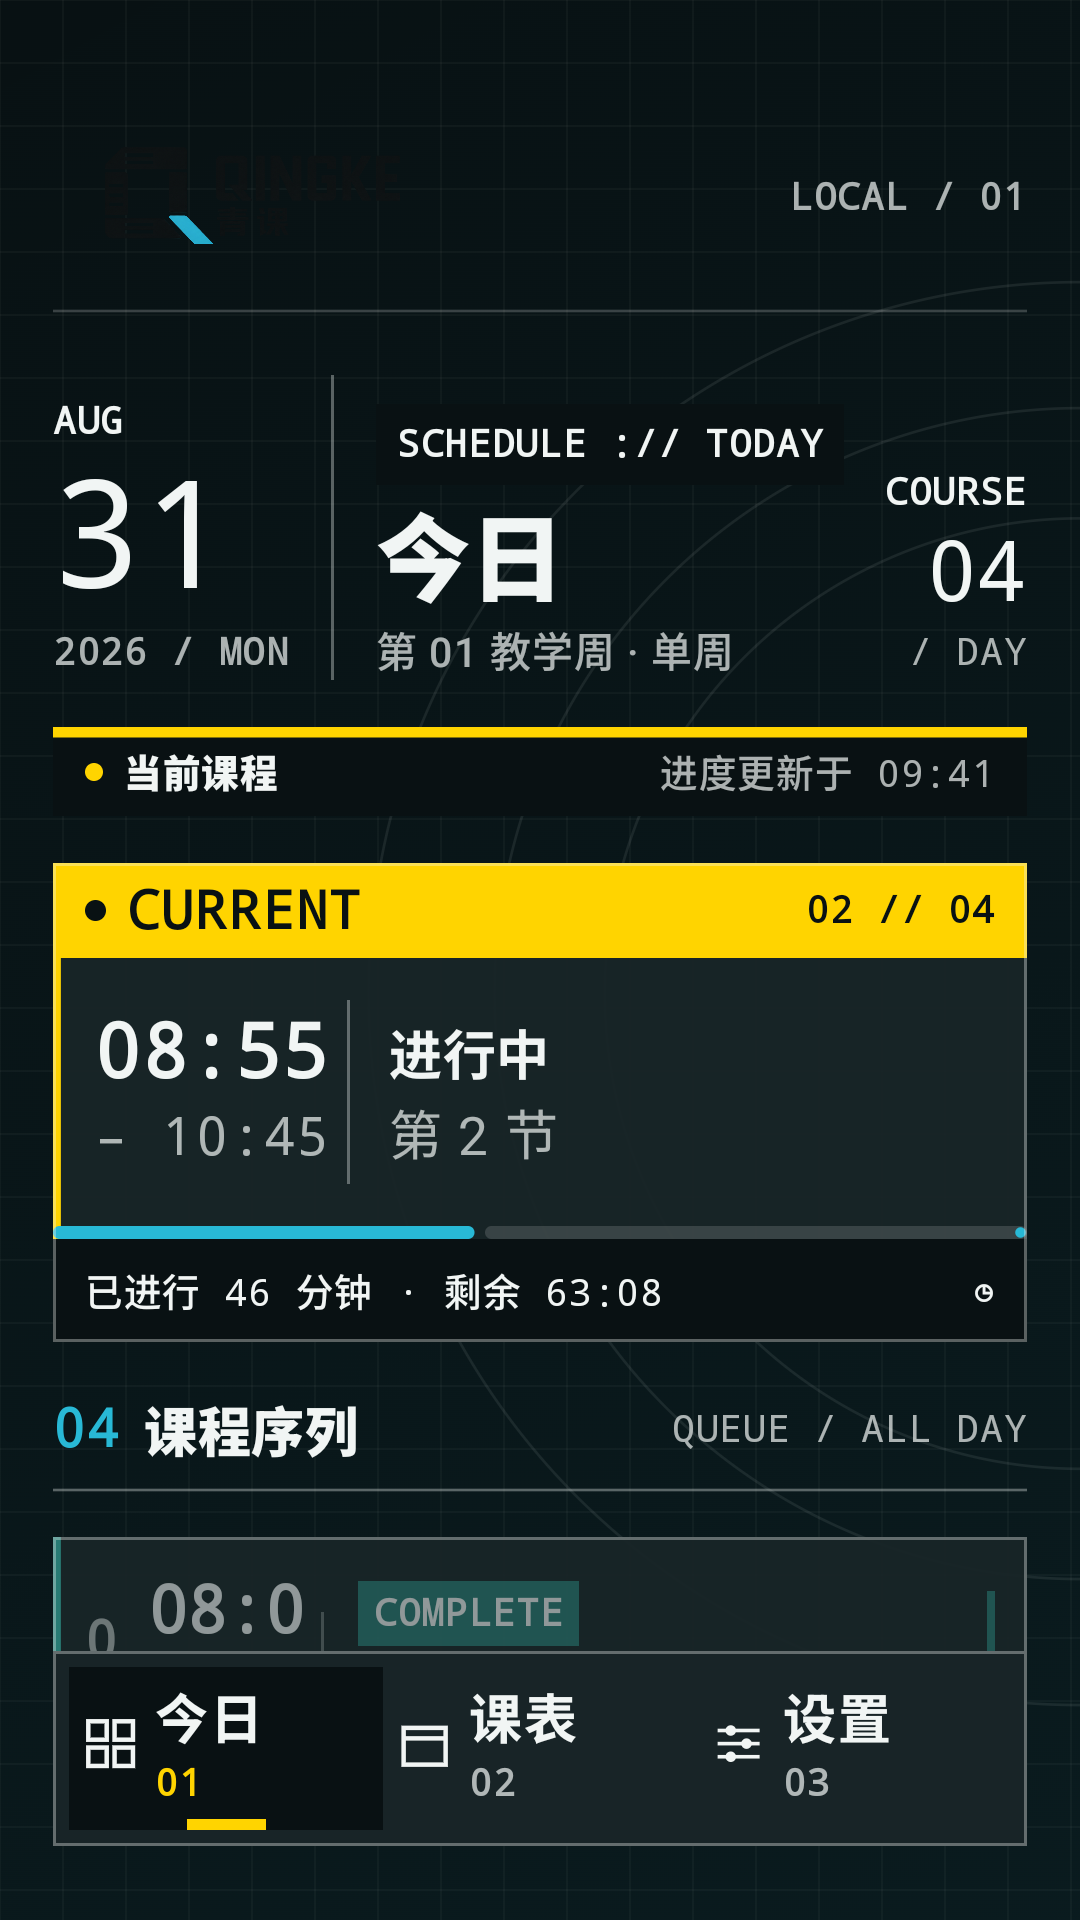
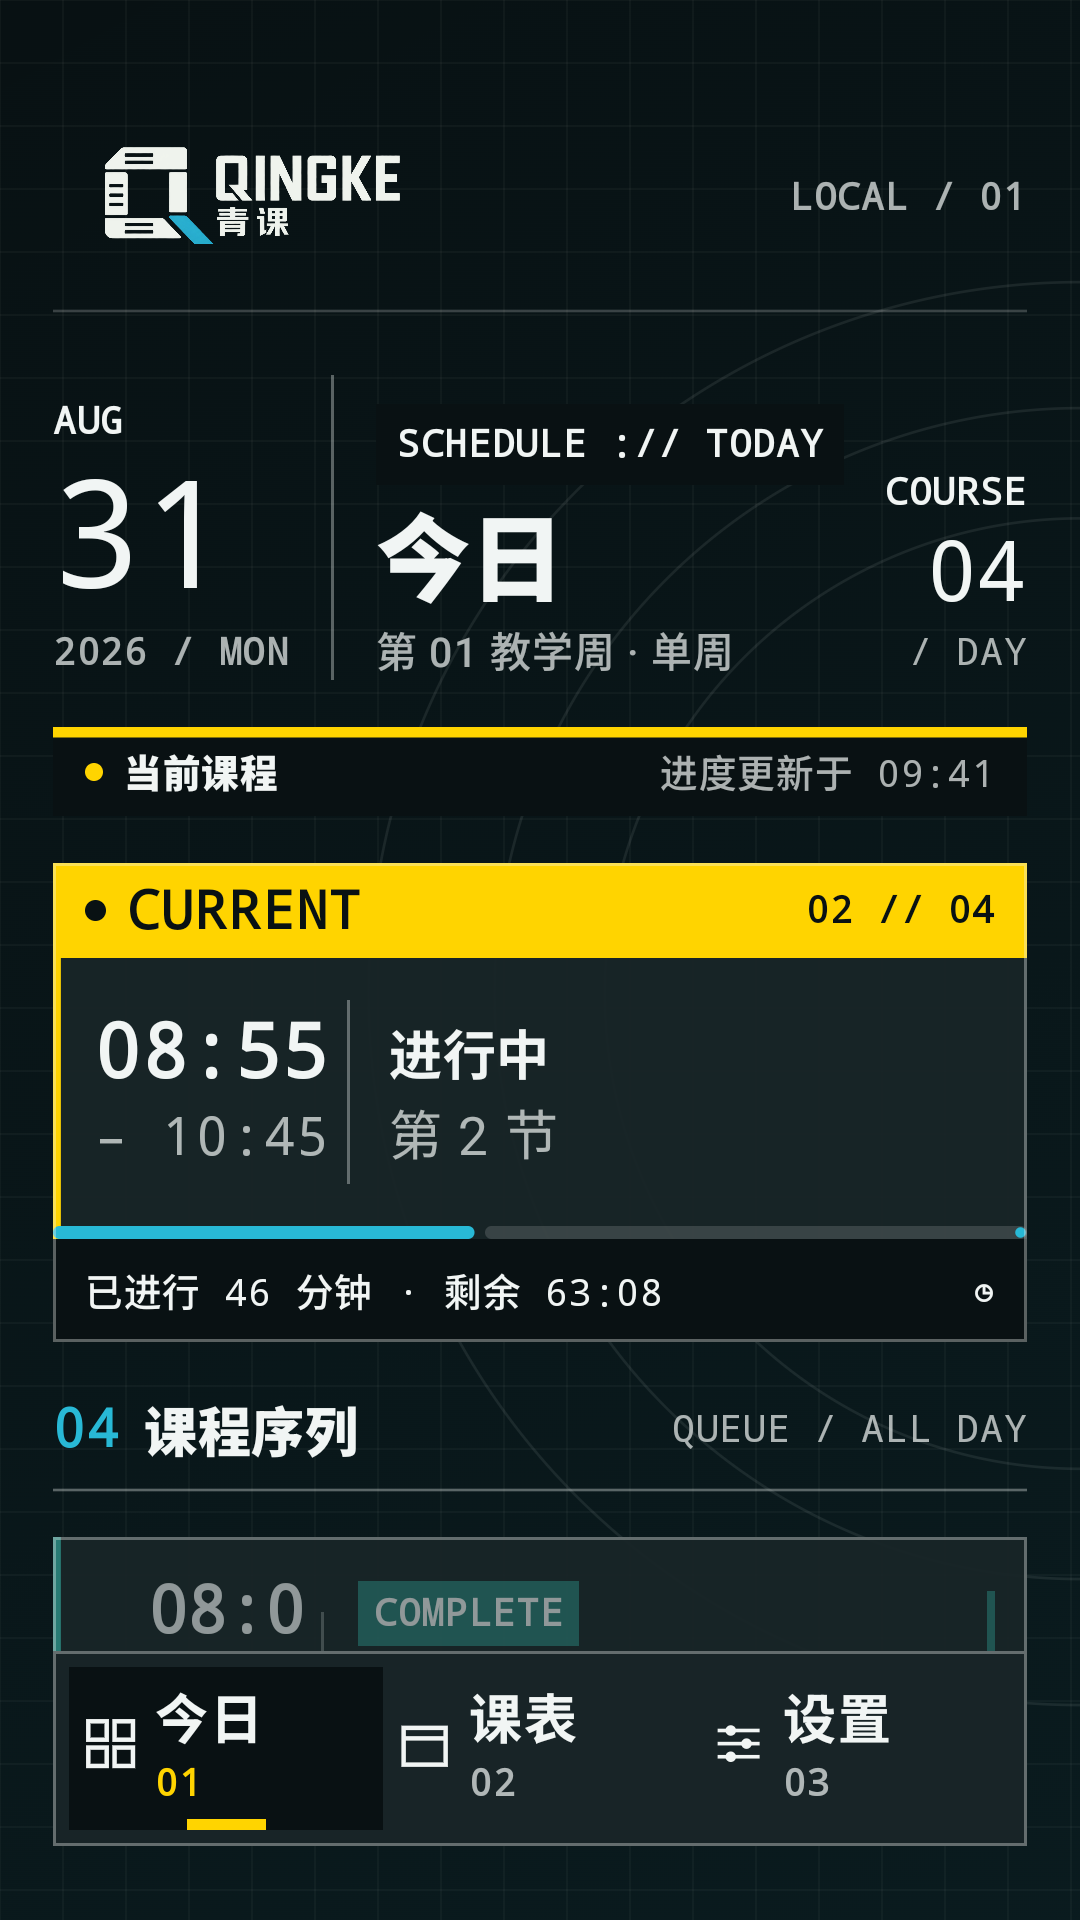
fix(android): address r2 visual review findings

Changed region(s): [[0.0917, 0.0625, 0.3667, 0.125], [0.0611, 0.8438, 0.1222, 0.875]]

diff --git a/Android/app/src/main/java/com/qingke/schedule/ui/QingKeApp.kt b/Android/app/src/main/java/com/qingke/schedule/ui/QingKeApp.kt
@@ -6,7 +6,6 @@ import android.app.TimePickerDialog
 import androidx.compose.foundation.background
 import androidx.compose.foundation.border
 import androidx.compose.foundation.clickable
-import androidx.compose.foundation.gestures.detectVerticalDragGestures
 import androidx.compose.foundation.isSystemInDarkTheme
 import androidx.compose.foundation.Canvas
 import androidx.compose.foundation.layout.Arrangement
@@ -66,7 +65,7 @@ import androidx.compose.ui.platform.LocalContext
 import androidx.compose.ui.platform.LocalView
 import androidx.compose.ui.res.painterResource
 import androidx.compose.ui.platform.testTag
-import androidx.compose.ui.input.pointer.pointerInput
+import androidx.compose.ui.graphics.graphicsLayer
 import androidx.compose.ui.semantics.contentDescription
 import androidx.compose.ui.semantics.semantics
 import androidx.compose.ui.semantics.Role
@@ -342,18 +341,20 @@ fun QingKeAppContent(
     val presentation = TodaySchedulePresentation.create(semester, state.data.courses, now, state.preferences.academicCalendar)
     var refreshing by remember { mutableStateOf(false) }
     val scope = rememberCoroutineScope()
-    val triggerRefresh = { if (!refreshing) scope.launch { refreshing = true; refresh(); delay(350); refreshing = false } }
+    val triggerRefresh = {
+        if (!refreshing) {
+            refreshing = true
+            scope.launch {
+                refresh()
+                delay(350)
+                refreshing = false
+            }
+        }
+    }
     Column(modifier.statusBarsPadding().testTag("today-screen")) {
         BrandHeader(dark)
         PullToRefreshBox(isRefreshing = refreshing, onRefresh = triggerRefresh, modifier = Modifier.weight(1f).fillMaxWidth().testTag("today-refresh-container")) {
-            var draggedDistance by remember { mutableStateOf(0f) }
-            LazyColumn(Modifier.fillMaxSize().testTag("today-scroll-content").pointerInput(refreshing) {
-                detectVerticalDragGestures(
-                    onVerticalDrag = { _, amount -> draggedDistance += amount },
-                    onDragEnd = { if (kotlin.math.abs(draggedDistance) > 96f && !refreshing) triggerRefresh(); draggedDistance = 0f },
-                    onDragCancel = { draggedDistance = 0f },
-                )
-            }, contentPadding = androidx.compose.foundation.layout.PaddingValues(start = 20.dp, end = 20.dp, top = 12.dp, bottom = 100.dp), verticalArrangement = Arrangement.spacedBy(18.dp)) {
+            LazyColumn(Modifier.fillMaxSize().testTag("today-scroll-content"), contentPadding = androidx.compose.foundation.layout.PaddingValues(start = 20.dp, end = 20.dp, top = 12.dp, bottom = 100.dp), verticalArrangement = Arrangement.spacedBy(18.dp)) {
                 item { TodayHero(now, semester, presentation, dark, Modifier.testTag("today-date-hero")) }
                 if (refreshing) item { RefreshFeedback(dark) }
                 if (presentation.items.isEmpty()) item { TodayEmpty(presentation.emptyMessage, dark) }
@@ -376,7 +377,7 @@ fun QingKeAppContent(
     Modifier.fillMaxWidth().padding(horizontal = 20.dp).padding(top = 8.dp, bottom = 12.dp).border(width = 0.dp, color = Color.Transparent)
         .drawBehind { drawLine(if (dark) Color.White.copy(alpha = .20f) else Color.Black.copy(alpha = .18f), androidx.compose.ui.geometry.Offset(0f, size.height), androidx.compose.ui.geometry.Offset(size.width, size.height), 1.dp.toPx()) }.testTag("today-brand-header"), verticalAlignment = Alignment.CenterVertically,
 ) {
-    androidx.compose.foundation.Image(painterResource(R.drawable.qingke_logo), "青课 QINGKE ACADEMIC TERMINAL", Modifier.width(154.dp).heightIn(min = 54.dp).testTag("today-brand-logo"), contentScale = ContentScale.Fit)
+    androidx.compose.foundation.Image(painterResource(if (dark) R.drawable.qingke_logo_dark else R.drawable.qingke_logo), "青课 QINGKE ACADEMIC TERMINAL", Modifier.width(154.dp).heightIn(min = 54.dp).testTag("today-brand-logo"), contentScale = ContentScale.Fit)
     Spacer(Modifier.weight(1f)); Text("LOCAL / 01", color = terminalSecondary(dark), fontFamily = FontFamily.Monospace, fontWeight = FontWeight.Bold, style = MaterialTheme.typography.labelSmall)
 }
 
@@ -413,7 +414,7 @@ fun QingKeAppContent(
 
 @Composable private fun CourseRow(item: TodayCourseItem, semester: com.qingke.schedule.domain.Semester, index: Int, dark: Boolean) = Row(Modifier.fillMaxWidth().terminalPanel(dark, courseColor(item.occurrence.course.color)).alpha(if (item.status == CourseStatus.FINISHED) .56f else 1f).padding(12.dp).testTag("today-course-${item.occurrence.key.courseIndex}-${item.occurrence.key.scheduleIndex}"), verticalAlignment = Alignment.CenterVertically) {
     val key = item.occurrence.key; val accent = if (item.status == CourseStatus.ONGOING) SignalYellow else courseColor(item.occurrence.course.color)
-    Text("%02d".format(index + 1), color = terminalSecondary(dark), fontFamily = FontFamily.Monospace, fontWeight = FontWeight.Black, modifier = Modifier.width(24.dp)); Column(Modifier.width(66.dp)) { val range = ScheduleDisplayText.timeRange(item.occurrence.schedule, semester).split("–"); Text(range.firstOrNull().orEmpty(), color = terminalText(dark), fontFamily = FontFamily.Monospace, fontWeight = FontWeight.Bold, style = MaterialTheme.typography.titleLarge); Text(range.getOrNull(1).orEmpty(), color = terminalSecondary(dark), fontFamily = FontFamily.Monospace, style = MaterialTheme.typography.labelSmall) }; Box(Modifier.width(1.dp).heightIn(min = 52.dp).background(terminalBorder(dark))); Column(Modifier.padding(start = 13.dp).weight(1f)) { Text(statusText(item), color = if (item.status == CourseStatus.ONGOING) InverseSurface else terminalText(dark), fontFamily = FontFamily.Monospace, fontWeight = FontWeight.Black, style = MaterialTheme.typography.labelSmall, modifier = Modifier.background(accent).padding(horizontal = 6.dp, vertical = 2.dp).testTag("today-course-status-${key.courseIndex}-${key.scheduleIndex}")); Text(item.occurrence.course.name, color = terminalText(dark), style = MaterialTheme.typography.titleMedium, fontWeight = FontWeight.Bold); Text(courseDetails(item.occurrence), color = terminalSecondary(dark), modifier = Modifier.testTag("today-course-details-${key.courseIndex}-${key.scheduleIndex}"), style = MaterialTheme.typography.labelSmall) }; Box(Modifier.width(3.dp).heightIn(min = 68.dp).background(accent).testTag("today-course-color-${key.courseIndex}-${key.scheduleIndex}").semantics { contentDescription = "课程颜色：${courseColorLabel(item.occurrence.course.color)}" })
+    Text("%02d".format(index + 1), color = terminalSecondary(dark), fontFamily = FontFamily.Monospace, fontWeight = FontWeight.Black, modifier = Modifier.width(24.dp).graphicsLayer { rotationZ = -90f }.testTag("today-course-index-${key.courseIndex}-${key.scheduleIndex}")); Column(Modifier.width(66.dp)) { val range = ScheduleDisplayText.timeRange(item.occurrence.schedule, semester).split("–"); Text(range.firstOrNull().orEmpty(), color = terminalText(dark), fontFamily = FontFamily.Monospace, fontWeight = FontWeight.Bold, style = MaterialTheme.typography.titleLarge); Text(range.getOrNull(1).orEmpty(), color = terminalSecondary(dark), fontFamily = FontFamily.Monospace, style = MaterialTheme.typography.labelSmall) }; Box(Modifier.width(1.dp).heightIn(min = 52.dp).background(terminalBorder(dark))); Column(Modifier.padding(start = 13.dp).weight(1f)) { Text(statusText(item), color = if (item.status == CourseStatus.ONGOING) InverseSurface else terminalText(dark), fontFamily = FontFamily.Monospace, fontWeight = FontWeight.Black, style = MaterialTheme.typography.labelSmall, modifier = Modifier.background(accent).padding(horizontal = 6.dp, vertical = 2.dp).testTag("today-course-status-${key.courseIndex}-${key.scheduleIndex}")); Text(item.occurrence.course.name, color = terminalText(dark), style = MaterialTheme.typography.titleMedium, fontWeight = FontWeight.Bold); Text(courseDetails(item.occurrence), color = terminalSecondary(dark), modifier = Modifier.testTag("today-course-details-${key.courseIndex}-${key.scheduleIndex}"), style = MaterialTheme.typography.labelSmall) }; Box(Modifier.width(3.dp).heightIn(min = 68.dp).background(accent).testTag("today-course-color-${key.courseIndex}-${key.scheduleIndex}").semantics { contentDescription = "课程颜色：${courseColorLabel(item.occurrence.course.color)}" })
 }
 
 private fun terminalText(dark: Boolean) = if (dark) Color(0xFFF1F5F4) else Color(0xFF091113)

diff --git a/Android/app/src/androidTest/java/com/qingke/schedule/ui/QingKeAppTest.kt b/Android/app/src/androidTest/java/com/qingke/schedule/ui/QingKeAppTest.kt
@@ -1,10 +1,13 @@
 package com.qingke.schedule.ui
 
+import android.os.SystemClock
+import android.graphics.Bitmap
+import android.graphics.BitmapFactory
+import android.content.res.Configuration
+import android.util.Xml
 import android.view.View
 import android.widget.DatePicker
 import android.widget.TimePicker
-import android.os.SystemClock
-import android.graphics.Bitmap
 import androidx.activity.ComponentActivity
 import androidx.compose.runtime.CompositionLocalProvider
 import androidx.compose.runtime.getValue
@@ -66,6 +69,7 @@ import androidx.compose.ui.unit.Density
 import androidx.test.platform.app.InstrumentationRegistry
 import com.qingke.schedule.preferences.AcademicCalendarPreferences
 import com.qingke.schedule.preferences.AppearanceMode
+import com.qingke.schedule.R
 import java.io.File
 
 @RunWith(AndroidJUnit4::class)
@@ -308,6 +312,53 @@ class QingKeAppTest {
         fontScale = 1.3f
         rule.waitForIdle()
         saveTodayScreenshot("android-api37-today-font130-testhost.png")
+        fontScale = 1f
+        state = state.copy(preferences = state.preferences.copy(appearanceMode = AppearanceMode.LIGHT))
+        rule.waitForIdle()
+        rule.onNodeWithTag("today-scroll-content").performScrollToIndex(8)
+        rule.onNodeWithTag("today-end-marker").assertIsDisplayed()
+        saveTodayScreenshot("android-api37-course-sequence-testhost.png")
+    }
+
+    @Test fun launcherForegroundUsesIndependentCoverArtworkAndAppLabel() {
+        val resources = rule.activity.resources
+        val parser = resources.getXml(R.drawable.ic_launcher_foreground)
+        var foregroundSource = 0
+        while (parser.next() != org.xmlpull.v1.XmlPullParser.END_DOCUMENT) {
+            if (parser.eventType == org.xmlpull.v1.XmlPullParser.START_TAG && parser.name == "bitmap") {
+                foregroundSource = Xml.asAttributeSet(parser).getAttributeResourceValue(
+                    "http://schemas.android.com/apk/res/android", "src", 0,
+                )
+            }
+        }
+        assertEquals(R.drawable.qingke_cover, foregroundSource)
+        assertTrue(foregroundSource != R.mipmap.ic_launcher)
+        assertEquals("青课", rule.activity.applicationInfo.loadLabel(rule.activity.packageManager).toString())
+    }
+
+    @Test fun nightLogoUsesReadableNonCyanForegroundVariant() {
+        val baseConfiguration = rule.activity.resources.configuration
+        val nightConfiguration = Configuration(baseConfiguration).apply {
+            uiMode = (uiMode and Configuration.UI_MODE_NIGHT_MASK.inv()) or Configuration.UI_MODE_NIGHT_YES
+        }
+        val nightResources = rule.activity.createConfigurationContext(nightConfiguration).resources
+        val qualifierLogo = requireNotNull(BitmapFactory.decodeResource(nightResources, R.drawable.qingke_logo))
+        val logo = requireNotNull(BitmapFactory.decodeResource(nightResources, R.drawable.qingke_logo_dark))
+        assertEquals(qualifierLogo.width, logo.width)
+        assertEquals(qualifierLogo.height, logo.height)
+        val visibleNonCyan = buildList {
+            for (y in 0 until logo.height step 8) for (x in 0 until logo.width step 8) {
+                val pixel = logo.getPixel(x, y)
+                val alpha = pixel ushr 24 and 0xff
+                val red = pixel shr 16 and 0xff
+                val green = pixel shr 8 and 0xff
+                val blue = pixel and 0xff
+                val cyan = blue > 100 && blue > red * 1.25 && green > red * 1.1
+                if (alpha > 200 && !cyan) add((red + green + blue) / 3)
+            }
+        }
+        assertTrue(visibleNonCyan.isNotEmpty())
+        assertTrue(visibleNonCyan.all { it >= 200 })
     }
 
     @Test fun todayApi37ScreenshotsCoverAllThreeEmptyStates() {

diff --git a/docs/Android/handoff.md b/docs/Android/handoff.md
@@ -1,27 +1,32 @@
 # 安卓项目当前交接状态
 
-## P3-03-R2 今日页及共享主壳视觉对齐已实施，待 Sol／高独立审查与用户确认（最新，2026-09-14）
+## P3-03-R2 首轮复审问题修正进行中，待完整验证与 Sol／高复审（最新，2026-09-14）
 
 本轮在 `Android` 分支从 `10b92535216b87de2f808e3d5ec392aa6af18321` 实施已授权的 P3-03-R2；开始时
 工作区干净且与 `origin/Android` 一致。应用代码仅改 Android Manifest、资源、`QingKeApp.kt` 和相关
 Compose AndroidTest；没有修改 iOS、Web、`source/`、领域／持久化／共享协议或构建工具链，也没有进入 P3-04。
 
-Android 现与 `origin/IOS` `fc3ddfb8ffa14b205a591ffdbed5632d5f975001` 的 `TerminalBackdrop`、品牌头、
+首轮实施提交为 `5b18381b22ffe6876868395fce2a446083fe7423`，Sol 独立复审尚未通过，实际指出：夜间／130% Logo
+不可读、adaptive foreground 自引用导致默认机器人、双重下拉手势风险、序号未旋转且完整队列缺图、iOS 参考未进入
+TODAY。本轮只修正这五项，并未开始 P3-04。Android 现与 `origin/IOS` `fc3ddfb8ffa14b205a591ffdbed5632d5f975001` 的 `TerminalBackdrop`、品牌头、
 三段 hero、活动条、featured／序列、空状态和 `TerminalTabBar` 对齐；保留 R1 已验证的颜色回退、状态、
-下拉门禁、生命周期 tick、Activity／ViewModel 所有权及唯一 occurrence tag。`source/cover.png` 已作为
-launcher/adaptive icon 来源，Logo 为用户指定 `source/qingke-logo-q-matrix-preview.png` 的 Android 资源副本，
-应用名为“青课”。没有放置不可用的 ADD、编辑或详情入口。
+下拉门禁、生命周期 tick、Activity／ViewModel 所有权及唯一 occurrence tag。`source/cover.png` 已以独立
+`qingke_cover` drawable 作为 launcher/adaptive foreground 来源，Logo 为用户指定
+`source/qingke-logo-q-matrix-preview.png` 的 Android 资源副本，并新增符合 Android night qualifier 的机械派生浅色前景
+版本（保留青色和透明度）；应用名为“青课”。生产手写下拉已删除，只保留 `PullToRefreshBox`，并在启动协程前同步门禁；
+课程行索引按 iOS 方向旋转。没有放置不可用的 ADD、编辑或详情入口。
 
-本轮最终正确 API 37 ARM64 `connectedDebugAndroidTest` XML 为 37 tests、0 failures、0 errors、0 skipped；
-Debug／Release JVM 各 79 tests、0 failures／errors／skipped，lintDebug 0 errors、19 warnings，Debug／Release
-和 AndroidTest APK 均完成。生产 APK 已验证首次学期保存、TODAY 空状态下拉、三个标签、force-stop／重启、launcher
-图标和名称，最后 app logcat 未见 FATAL／ANR；本轮启动 AVD 将在交付前关闭。所有截图、命令、限制、iOS 参考和
-Android 平台差异见 [P3-03-R2 视觉对齐证据](evidence/p3-03-r2-visual-alignment-20260914.txt)。
+已测试：修正后的 clean Debug／Release JVM 各 79 tests／8 XML、0 failures／errors／skipped；lintDebug 0 issues／0 errors，
+Debug、Release unsigned 与 AndroidTest APK 均已生成。正确 API 37 ARM64 `connectedDebugAndroidTest` 为 39 tests／1 XML、
+0 failures／errors／skipped；夜间 Logo、资源契约、唯一标准下拉和旋转队列截图都由该轮覆盖。iOS 独立 `fc3ddfb8` 的 fixture
+导入 XCTest 为 1 test／0 failures，并已在实际 Debug App 确认导入后进入 `today-tab`、保存 TODAY 图。所有截图、命令、
+限制、iOS 参考和 Android 平台差异见 [P3-03-R2 视觉对齐证据](evidence/p3-03-r2-visual-alignment-20260914.txt)。
 
 关键限制必须如实保留：P3-03 尚未授权课程录入／导入，生产入口只能验证 TODAY 空状态；固定课程、当前 featured、
 完整序列、深浅／130% 与三类空状态由 API 37 connected 测试宿主截图覆盖，文件名均标注 `testhost`，不能当作
-生产课程数据。iOS 独立模拟器已实际启动和截图，但导入参考仍在首次设置流程，不能冒充与 Android 固定数据的成对
-TODAY 图。因此 R2 已实施和测试，但尚待 Sol／高独立审查及用户视觉验收；不得宣称 A02、A07、P3 或完整 App 验收，
+生产课程数据。iOS 旧 onboarding 参考不再作为 TODAY 证据；最新 `ios-fc3ddfb8-today-imported.png` 是实际 fixture 导入确认后的
+TODAY。生产 Debug APK 已重新安装，app drawer 可见 cover 图形，但自动化未取得同一静态帧内同时清楚显示最后一项图标和“青课”
+标签的证据；该项如实留待 Sol 或用户设备人工确认。R2 仍待 Sol／高独立审查，且绝不代表用户验收；不得宣称 A02、A07、P3 或完整 App 验收，
 不得自动开始 P3-04。
 
 ## Sol 主 Agent／Terra 执行子 Agent 流程启用（2026-09-14）
